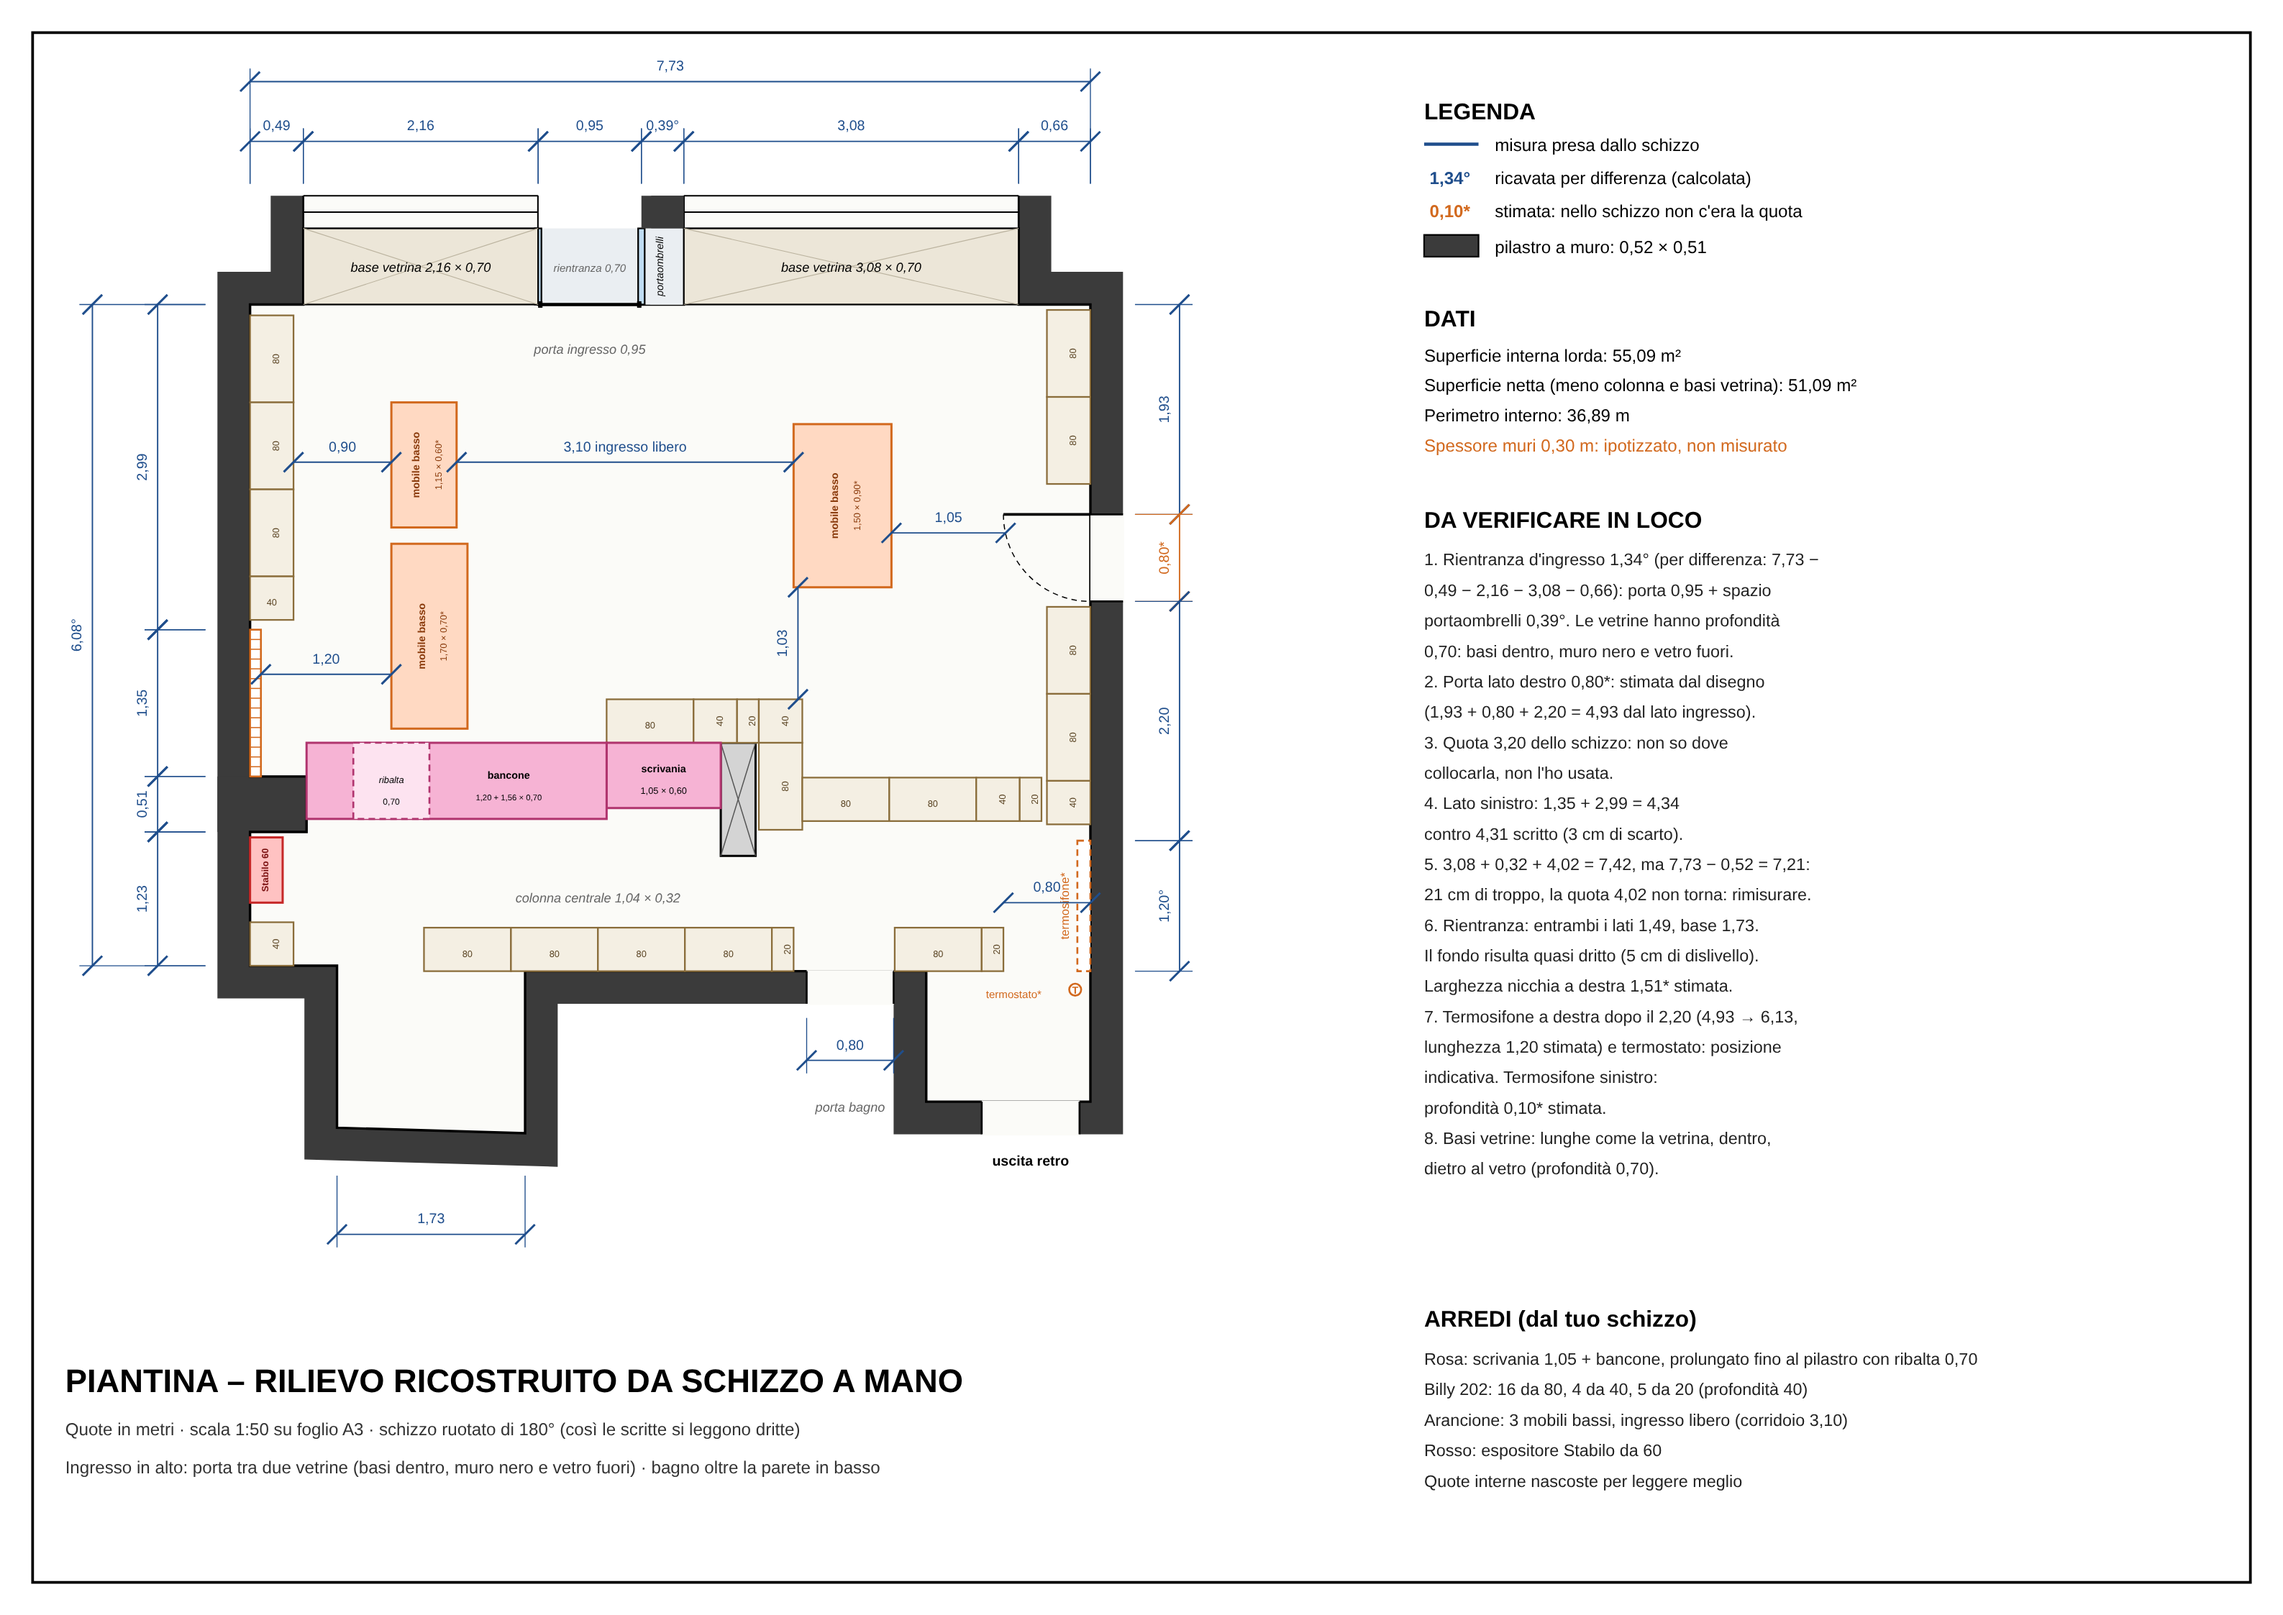
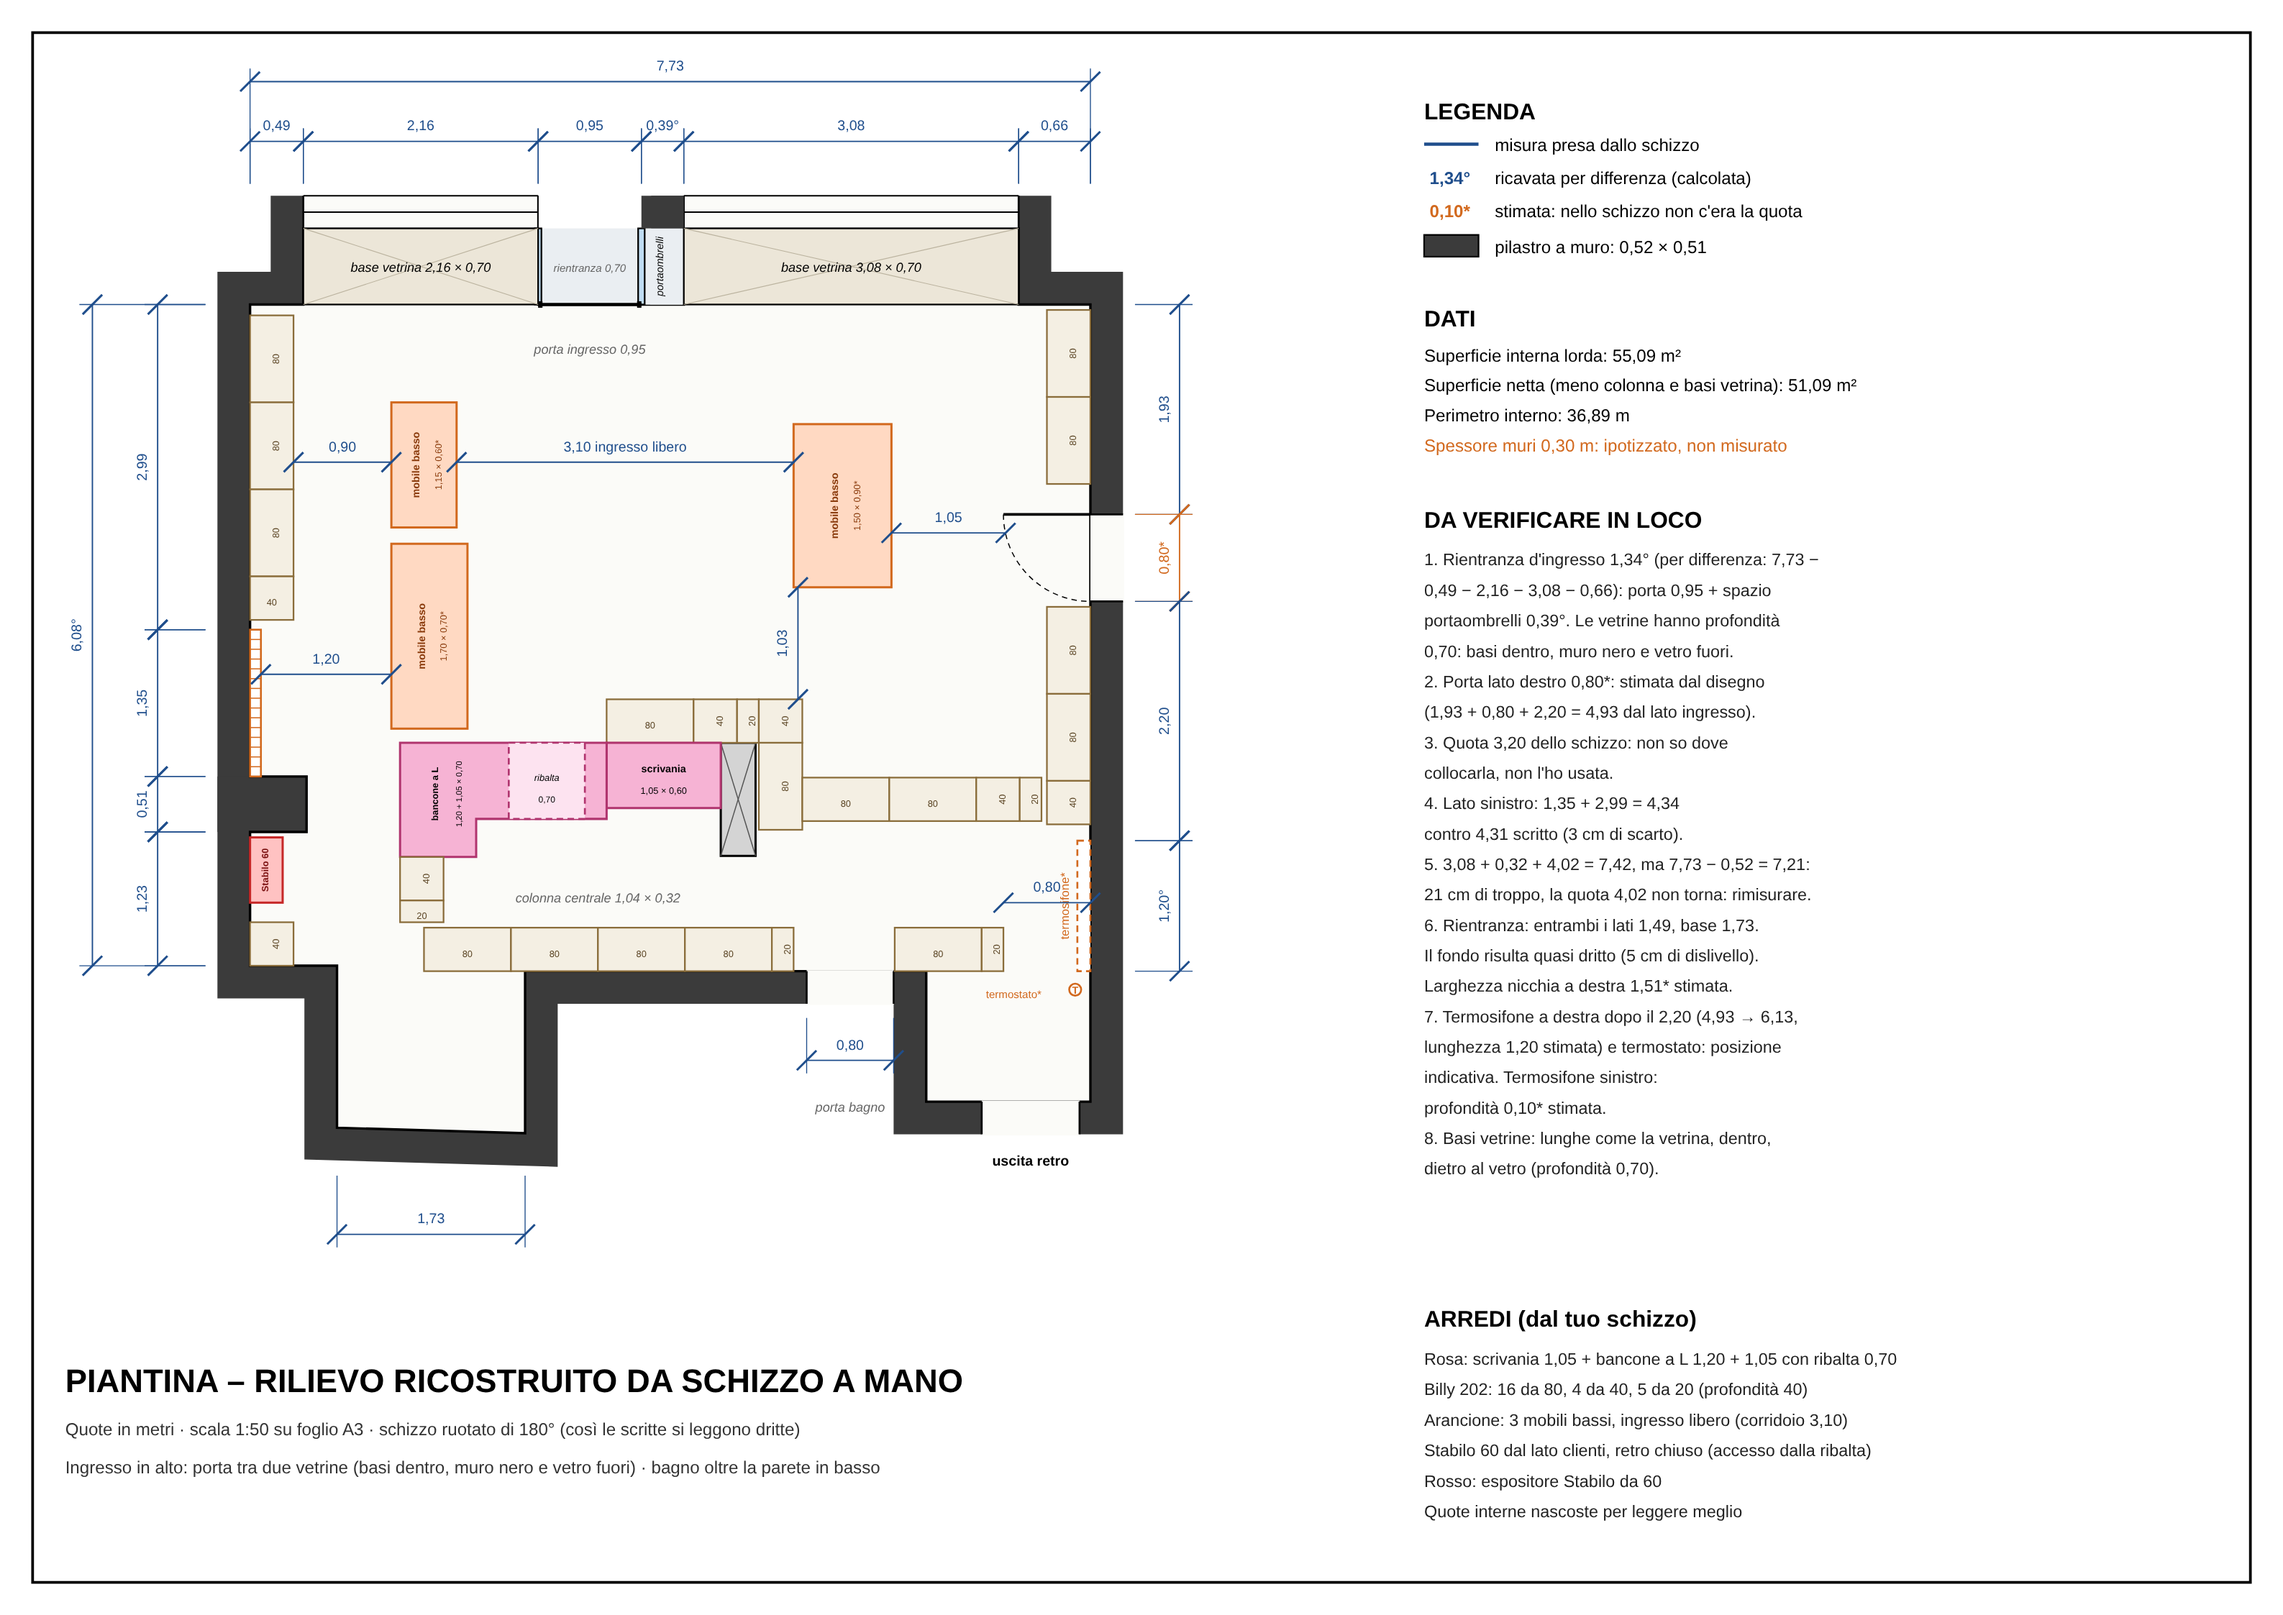
Stabilo dal lato clienti: bancone a L con ritorno e Billy che chiudono il retro
Claude-Session: https://claude.ai/code/session_012mEpG2XJd9CwTCZtepJEcC

Changed region(s): [[0.1248, 0.4363, 0.2807, 0.5298], [0.6238, 0.8727, 0.7486, 0.935], [0.7798, 0.8727, 0.811, 0.9038]]

diff --git a/piantina/genera_piantina.py b/piantina/genera_piantina.py
@@ -258,12 +258,15 @@ if FURN:
     rect(3.28, 4.03, 4.33, 4.63, fill=PINK, stroke=PINKD, w=0.4)
     text(3.805, 4.30, "scrivania", 1.9, "#000", weight="bold")
     text(3.805, 4.50, "1,05 × 0,60", 1.7, "#000")
-    rect(0.52, 4.03, 3.28, 4.73, fill=PINK, stroke=PINKD, w=0.4)      # bancone prolungato fino al pilastro a muro
-    rect(0.95, 4.03, 1.65, 4.73, fill="#fde3f0", stroke=PINKD, w=0.35, dash="1.2 0.8")   # ribalta 0,70
-    text(1.30, 4.40, "ribalta", 1.7, "#000", style="italic")
-    text(1.30, 4.60, "0,70", 1.6, "#000")
-    text(2.38, 4.36, "bancone", 1.9, "#000", weight="bold")
-    text(2.38, 4.56, "1,20 + 1,56 × 0,70", 1.5, "#000")
+    lpts = [(1.38, 4.03), (3.28, 4.03), (3.28, 4.73), (2.08, 4.73), (2.08, 5.08), (1.38, 5.08)]
+    add('<polygon points="' + " ".join(f"{f(X(x))},{f(Y(y))}" for x, y in lpts) + f'" fill="{PINK}" stroke="{PINKD}" stroke-width="0.4"/>')
+    rect(2.38, 4.03, 3.08, 4.73, fill="#fde3f0", stroke=PINKD, w=0.35, dash="1.2 0.8")   # ribalta 0,70 per entrare nel retro
+    text(2.73, 4.38, "ribalta", 1.7, "#000", style="italic")
+    text(2.73, 4.58, "0,70", 1.6, "#000")
+    text(1.73, 4.50, "bancone a L", 1.7, "#000", weight="bold", rot=-90)
+    text(1.95, 4.50, "1,20 + 1,05 × 0,70", 1.5, "#000", rot=-90)
+    # Billy che chiude il retro tra il ritorno del bancone e la libreria lato bagno (40 + 20)
+    run_y(1.38, 5.08, [0.4, 0.2])
 
     # arancione: mobili bassi, messi in modo da lasciare corridoi di almeno 0,90 per il passaggio delle persone
     for (x1, y1, x2, y2, lab) in [(1.30, 0.90, 1.90, 2.05, "1,15 × 0,60"), (1.30, 2.20, 2.00, 3.90, "1,70 × 0,70"),
@@ -374,9 +377,10 @@ if MODE == 'a3':
 
     if FURN:
         ptext(px, 244, "ARREDI (dal tuo schizzo)", 4.2, "#000", weight="bold")
-        for i, t in enumerate(["Rosa: scrivania 1,05 + bancone, prolungato fino al pilastro con ribalta 0,70",
+        for i, t in enumerate(["Rosa: scrivania 1,05 + bancone a L 1,20 + 1,05 con ribalta 0,70",
                                "Billy 202: 16 da 80, 4 da 40, 5 da 20 (profondità 40)",
                                "Arancione: 3 mobili bassi, ingresso libero (corridoio 3,10)",
+                               "Stabilo 60 dal lato clienti, retro chiuso (accesso dalla ribalta)",
                                "Rosso: espositore Stabilo da 60",
                                "Quote interne nascoste per leggere meglio"]):
             ptext(px, 251 + i * 5.6, t, 3.1, "#222")
